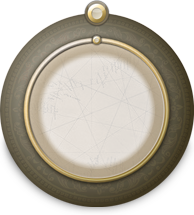
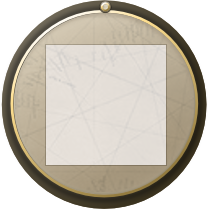
* New (slim) minimap images as decided on in usability meeting

diff --git a/horizons/gui/ingamegui.py b/horizons/gui/ingamegui.py
@@ -85,7 +85,7 @@ class IngameGui(LivingObject):
 		minimap.position_technique = "right-20:top+4"
 		minimap.show()
 
-		minimap_rect = Rect.init_from_topleft_and_size(minimap.position[0]+77, 55, 120, 120)
+		minimap_rect = Rect.init_from_topleft_and_size(minimap.position[0]+77, 52, 120, 117)
 
 		self.minimap = Minimap(minimap_rect, self.session, \
 		                       self.session.view.renderer['GenericRenderer'])
